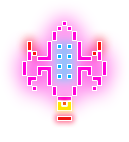
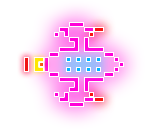
将选人界面的飞机弄成动态的

diff --git a/js/scenes/StartScene.js b/js/scenes/StartScene.js
@@ -51,8 +51,10 @@ export default class StartScene extends Scene {
         this.countText.anchor.set(0.5, 0.5);
         this.countText.position.set(App.sceneWidth / 2, App.sceneHeight / 2 - Config.startScene.countText.offset);
 
-        this.plane = this.selectLayer.addChild(new Sprite());
-        this.plane.texture = resources[Config.imagePath.rocket[0]].texture;
+        let textures = Config.imagePath.rocket.map(path => resources[path].texture);
+        this.plane = this.selectLayer.addChild(new AnimatedSprite(textures));
+        this.plane.animationSpeed = 0.1;
+        this.plane.play();
         this.plane.anchor.set(0.5, 0.5);
         this.plane.position.set(App.sceneWidth / 2, App.sceneHeight / 2);
         this.onClick(this.plane, this.onClickPlane.bind(this));
@@ -163,7 +165,8 @@ export default class StartScene extends Scene {
             let config = Config.planeList[this.index];
             this.nameText.text = config.name;
             this.countText.text = `${this.index + 1}/${Config.planeList.length}`;
-            this.plane.texture = resources[Config.imagePath[config.code][0]].texture;
+            this.plane.textures = Config.imagePath[config.code].map(path => resources[path].texture);
+            this.plane.play();
         }
     }
 
